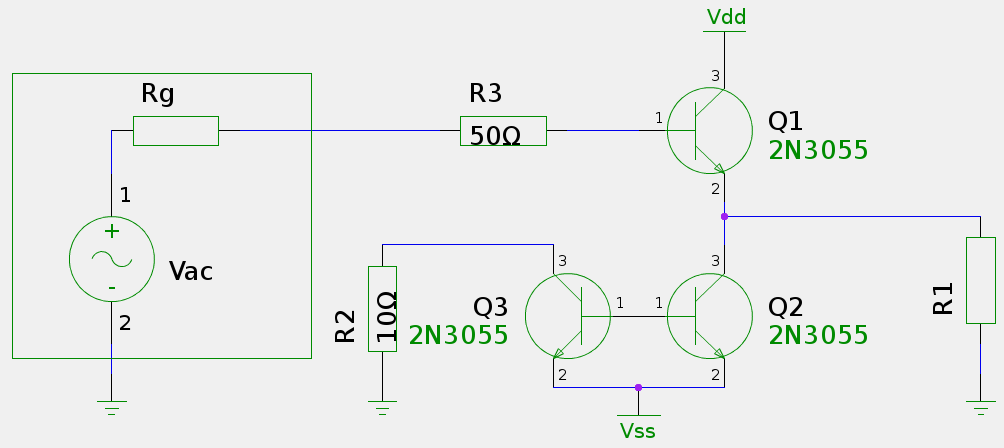
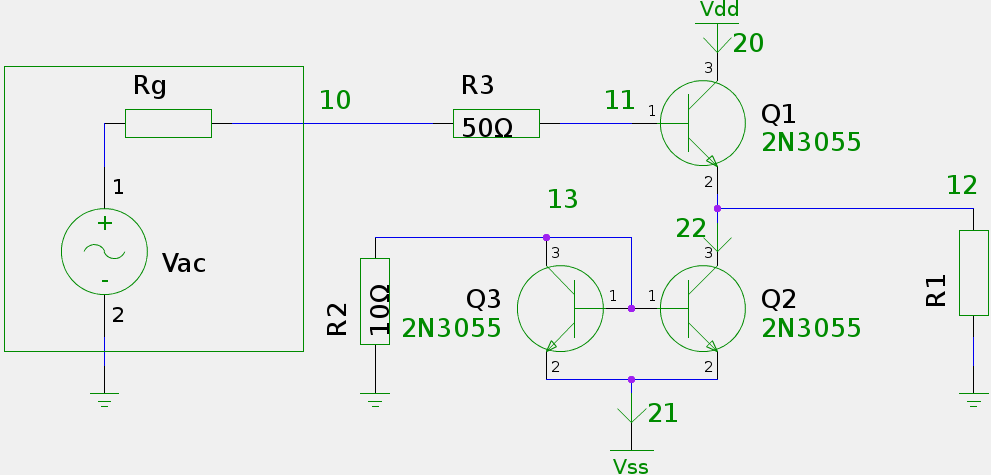
Ponto de funcionamento em repouso Dados da simulação

diff --git a/3_ClasseA/report/alpha.tex b/3_ClasseA/report/alpha.tex
@@ -139,7 +139,20 @@ De acordo com as instruções do guia, implentou-se o circuito da \rfig{../img/c
 
 \subsection{Ponto de funcionamento em repouso}
 Apresentam-se na tabela \ref{PFR} os valores de tensões e correntes relevantes medidos experiementalmente, calculados teoricamente e obtidos na simulação.
-\tabela[PFR]{Valores de corrente e tensão, conforme legenda da \rfig{esquema}}{llll}{
+
+\fig{../esquematico.png}{Esquemático do circuito utilizado, com legenda de nós e correntes}
+
+\tabela[PFR]{Valores de corrente e tensão, conforme legenda da \rfig{../esquematico.png}}{llll}{
+ID	&Experimental		&Teórico	&Simulação	\\ \hline
+Vdd (V)	&$8.022\pm0.01$		&$8.000$	&$8.000$	\\
+Vss (V)	&$-8.006\pm0.01$	&$-8.000$	&$-8.000$	\\
+10  (V)	&$-0.420\pm0.002$	&	&$-0.365$	\\
+11  (V)	&$-0.574\pm0.001$	&	&$-0.438$\\
+12  (V) &$-1.296\pm0.001$	&	&$-1.149$\\
+13  (V) &$-7.253\pm0.001$	&	&$-7.275$\\ \hline
+20  (A) &$1.12\pm0.02$		&	&$0.724$\\
+21  (A) &$1.88\pm0.02$		&	&$1.574$\\
+22  (A) &$1.23\pm0.02$		&	&$0.847$
 
 }
 
